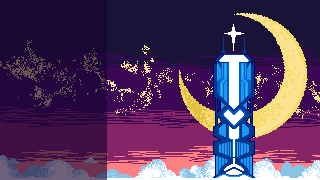
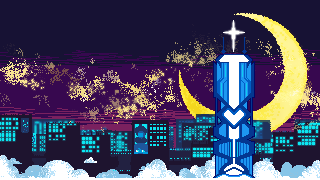
lots of art adjustments, font adjustment

diff --git a/Source/EnvironmentManager.cpp b/Source/EnvironmentManager.cpp
@@ -704,11 +704,32 @@ void EnvironmentManager::LoadAssetsFromConfig(const rapidjson::Document& doc)
     if (!doc.HasMember("environment") || !doc["environment"].IsObject()) return;
     const auto& env = doc["environment"];
 
+    // always reset boss room bg
+    m_bossRoomBg = nullptr;
+
+    // Boss room background
+    if (env.HasMember("boss_background") && env["boss_background"].IsObject()) {
+        const auto& bb = env["boss_background"];
+        m_bossRoomBg = std::make_unique<SpriteSheet>(
+            bb["file"].GetString(),
+            bb["rows"].GetInt(),
+            bb["cols"].GetInt(),
+            bb["cols"].GetInt(),
+            0.12f
+        );
+        m_bossRoomBg->AddClip("idle", 0, bb["cols"].GetInt() - 1, 0.12f, true);
+        m_bossRoomBg->Play("idle");
+    }
+
+    // clear parallax layers
+    for (int i = 0; i < 10; i++)
+        m_parallaxLayers[i].texture = nullptr;
+
     auto loadTex = [&](const char* key) -> AEGfxTexture* {
         if (env.HasMember(key) && env[key].IsString())
             return TextureManager::Get().LoadTexture(env[key].GetString());
         return nullptr;
-    };
+        };
 
     m_leftTex   = loadTex("platform_left");
     m_midTex    = loadTex("platform_mid");
@@ -721,10 +742,24 @@ void EnvironmentManager::LoadAssetsFromConfig(const rapidjson::Document& doc)
     // Load parallax layers from config
     if (env.HasMember("parallax") && env["parallax"].IsObject()) {
         const auto& parallax = env["parallax"];
-        const char* layerNames[3] = {"back", "middle", "front"};
+        /*const char* layerNames[3] = {"back", "middle", "front"};
         float speeds[3] = {0.3f, 0.6f, 1.0f};
         
         for (int i = 0; i < 3; i++) {
+            if (parallax.HasMember(layerNames[i]) && parallax[layerNames[i]].IsString()) {
+                m_parallaxLayers[i].texture = TextureManager::Get().LoadTexture(parallax[layerNames[i]].GetString());
+                m_parallaxLayers[i].speed = speeds[i];
+            }
+        }*/
+
+        const char* layerNames[10] = {
+            "colorgradient", "starback", "starfront", "crescent",
+            "buildingback", "buildingmiddle", "buildingfront",
+            "cloudtall", "cloudshort", "front"
+        };
+        float speeds[10] = { 0.0f, 0.05f, 0.1f, 0.15f, 0.2f, 0.35f, 0.5f, 0.4f, 0.45f, 0.0f };
+
+        for (int i = 0; i < 10; i++) {
             if (parallax.HasMember(layerNames[i]) && parallax[layerNames[i]].IsString()) {
                 m_parallaxLayers[i].texture = TextureManager::Get().LoadTexture(parallax[layerNames[i]].GetString());
                 m_parallaxLayers[i].speed = speeds[i];
@@ -851,6 +886,8 @@ void EnvironmentManager::Initialize()
 // ------------------------------------------------------------------------
 void EnvironmentManager::Update(float dt, Player& player, float cameraY)
 {
+    if (m_bossRoomBg) m_bossRoomBg->Update(dt);
+
     m_HUD.Update(dt, player, player.weapon);
 
     if (m_hoverAnim) m_hoverAnim->Update(dt);
@@ -1824,7 +1861,7 @@ void EnvironmentManager::UpdateBackground(float cameraY)
         : m_backgroundColours[index];
 }
 
-void EnvironmentManager::DrawBackground() const
+void EnvironmentManager::DrawBackground(float camX, float camY) const
 {
     // Set background color
     AEGfxSetBackgroundColor(m_currentColour.r, m_currentColour.g, m_currentColour.b);
@@ -1835,39 +1872,55 @@ void EnvironmentManager::DrawBackground() const
     const float screenWidth = 1600.0f;
     const float screenHeight = 900.0f;
     const float groundY = -350.0f;  // Ground position
+
+    // environment for bossroom
+    if (m_bossRoomBg) {
+        mm.DrawSpriteSheet(*m_bossRoomBg,
+            camX, camY,
+            screenWidth, screenHeight);
+        return;
+    }
     
-    for (int i = 0; i < 3; i++) {
+    for (int i = 0; i < 10; i++) {
         if (m_parallaxLayers[i].texture) {
             // Calculate parallax offset (negative for proper scrolling direction)
             // Divide by 5 to reduce parallax strength
             float offsetY = -m_parallaxY * m_parallaxLayers[i].speed / 10.0f;
             
-            if (i == 0) {
-                // First layer (back) - stretch from ground to max world height
-                float layerHeight = maxWorldHeight - groundY;
-                float layerCenterY = groundY + layerHeight * 0.5f + offsetY;
-                mm.DrawTexturedSquare(
-                    m_parallaxLayers[i].texture,
-                    0.0f, layerCenterY,
-                    screenWidth, layerHeight
-                );
-            } else {
-                // Layers 1-2 (middle and front) - tile by repeating texture as we scroll
-                float tileHeight = screenHeight;  // Tile size
-                float startY = offsetY;
-                
-                // Calculate how many tiles we need based on world movement
-                int numTiles = static_cast<int>(maxWorldHeight / tileHeight) + 2;
-                
-                for (int t = 0; t < numTiles; t++) {
-                    float tileY = startY + (t * tileHeight);
-                    mm.DrawTexturedSquare(
-                        m_parallaxLayers[i].texture,
-                        0.0f, tileY,
-                        screenWidth, tileHeight
-                    );
-                }
-            }
+            //if (i == 0 || i == 2) {
+            //    // First layer (back) - stretch from ground to max world height
+            //    float layerHeight = maxWorldHeight - groundY;
+            //    float layerCenterY = groundY + layerHeight * 0.5f + offsetY;
+            //    mm.DrawTexturedSquare(
+            //        m_parallaxLayers[i].texture,
+            //        0.0f, layerCenterY,
+            //        screenWidth, layerHeight
+            //    );
+            //} else {
+            //    // Layer 1 (middle) - tile by repeating texture as we scroll
+            //    float tileHeight = screenHeight;  // Tile size
+            //    float startY = offsetY;
+            //    
+            //    // Calculate how many tiles we need based on world movement
+            //    int numTiles = static_cast<int>(maxWorldHeight / tileHeight) + 2;
+            //    
+            //    for (int t = 0; t < numTiles; t++) {
+            //        float tileY = startY + (t * tileHeight);
+            //        mm.DrawTexturedSquare(
+            //            m_parallaxLayers[i].texture,
+            //            0.0f, tileY,
+            //            screenWidth, tileHeight
+            //        );
+            //    }
+            //}
+
+            float layerHeight = maxWorldHeight - groundY;
+            float layerCenterY = groundY + layerHeight * 0.5f + offsetY;
+            mm.DrawTexturedSquare(
+                m_parallaxLayers[i].texture,
+                0.0f, layerCenterY,
+                screenWidth, layerHeight
+            );
         }
     }
 }

diff --git a/Source/EnvironmentManager.h b/Source/EnvironmentManager.h
@@ -42,7 +42,7 @@ public:
     void LoadAssetsFromConfig(const rapidjson::Document& doc);
     void Initialize();
     void Update(float dt, Player& player, float cameraY);
-    void DrawBackground() const;
+    void DrawBackground(float camX = 0.0f, float camY = 0.0f) const;
     void DrawBackgroundOverlay(float camX, float camY) const;
     void DrawWorld(float camX, float camY, PlayerWeapon weapon, const Player& player, float screenHalfH);
     void DrawHUD(float camX, float camY, PlayerWeapon weapon);
@@ -287,7 +287,7 @@ private:
     SpatialGrid m_spatialGrid;
 
     // Parallax layers (back, middle, front)
-    ParallaxLayer m_parallaxLayers[3];
+    ParallaxLayer m_parallaxLayers[10];
     float m_parallaxY = 0.0f;  // track current parallax offset
 
     // Background constants
@@ -311,4 +311,5 @@ private:
     bool             m_bossDoorLoaded = false;
 
     bool m_bossRoomMode = false;
+    std::unique_ptr<SpriteSheet> m_bossRoomBg;
 };

diff --git a/Source/FontManager.cpp b/Source/FontManager.cpp
@@ -82,9 +82,9 @@ s8 FontManager::LoadFont(const std::string& name, const std::string& filepath, i
 }
 
 void FontManager::LoadDefaultFonts() {
-    m_FontLarge = LoadFont("Large", "Assets/Fonts/Lora-Bold.ttf", 72);
-    m_FontMedium = LoadFont("Medium", "Assets/Fonts/Lora-Medium.ttf", 48);
-    m_FontSmall = LoadFont("Small", "Assets/Fonts/WalterTurncoat-Regular.ttf", 24);
+    m_FontLarge = LoadFont("Large", "Assets/Fonts/KarenFat.ttf", 75);
+    m_FontMedium = LoadFont("Medium", "Assets/Fonts/AtariGames.ttf", 60);
+    m_FontSmall = LoadFont("Small", "Assets/Fonts/TinyUnicode.ttf", 50);
 
     // Also set legacy globals for backward compatibility during migration
     g_FontLarge = m_FontLarge;

diff --git a/Source/BossRoom.cpp b/Source/BossRoom.cpp
@@ -452,7 +452,7 @@ void BossRoom_Draw()
 {
     AESysFrameStart();
     Player& player = ObjectManager::Get().GetPlayer();
-    EnvironmentManager::Get().DrawBackground();
+    EnvironmentManager::Get().DrawBackground(globalCam.x, globalCam.y);
     EnvironmentManager::Get().DrawWorld(globalCam.x, globalCam.y, player.weapon, player, 900.0f * 0.5f);
     ObjectManager::Get().Draw(globalCam.x, globalCam.y, 800.0f, 450.0f);
     BossRoom::Get().Draw();

diff --git a/Source/Credits.cpp b/Source/Credits.cpp
@@ -36,7 +36,7 @@ void Credits_Initialize()
     totalElapsedTime = 0.0f;
 
     // logo texture
-    logoTexture = TextureManager::Get().LoadTexture("Assets/Images/titleicon.png"); // TODO
+    logoTexture = TextureManager::Get().LoadTexture("Assets/Images/titleicon.png");  
 }
 
 void Credits_Update()
